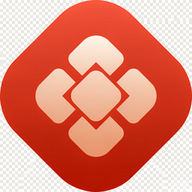
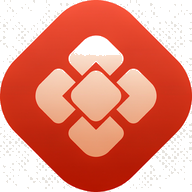
v2.17.13 图标背景透明化：先缩再扣白

diff --git a/index.html b/index.html
@@ -10,7 +10,7 @@
 <meta name="apple-mobile-web-app-title" content="班主任工作台">
 <link rel="manifest" href="./manifest.json">
 <link rel="apple-touch-icon" href="./icon_192.png">
[2 lines of base64/hex data omitted]
 <style>
 /* ==================== Reset & Base ==================== */
 *,*::before,*::after{box-sizing:border-box;margin:0;padding:0}
@@ -1883,7 +1883,7 @@ svg.ic-sm{width:15px;height:15px;vertical-align:-2.5px}
         <div>请输入密码解锁工作台</div>
       </div>
       <div class="login-vertical">厚德博学 · 敬业爱生</div>
-      <div class="login-version">v2.17.12</div>
+      <div class="login-version">v2.17.13</div>
       <div class="login-particles">
         <span style="left:15%;top:30%;animation-delay:0s"></span>
         <span style="left:75%;top:20%;animation-delay:2s"></span>
@@ -1999,7 +1999,7 @@ svg.ic-sm{width:15px;height:15px;vertical-align:-2.5px}
         <span class="nav-icon"><svg class="ic"><use href="#i-gear"/></svg></span><span>设置</span>
       </div>
     </nav>
-    <div class="sidebar-footer">v2.17.12 · 班主任工作台</div>
+    <div class="sidebar-footer">v2.17.13 · 班主任工作台</div>
   </aside>
 
   <!-- Main -->
@@ -3696,7 +3696,7 @@ function revertCreditOp(student, op){
 /* 学分变更后统一刷新所有展示学分的视图。
    此前 applyCredit / applyCreditBulk / undoLastOp 只刷 renderCreditsPage，
    学生管理模块的表格不刷新 —— 这是「分数不一致」的直接观感来源。
-   v2.17.12：公示页（学分榜/进步榜/零扣分榜/概览统计/四个图表）纳入统一学分刷新——
+   v2.17.13：公示页（学分榜/进步榜/零扣分榜/概览统计/四个图表）纳入统一学分刷新——
    加分/减分/撤销/恢复/校快照后，只要公示页正开着（常驻/投屏），进步榜等立即同步，
    不再出现「同学加了分，进步榜/学分榜还是老样子」。 */
 function refreshCreditViews(){
@@ -3714,7 +3714,7 @@ function refreshCreditViews(){
   if(dash && dash.classList.contains('active')) safe(window.renderDashboard);
   var ana = document.getElementById('page-analytics');
   if(ana && ana.classList.contains('active')) safe(window.renderAnalytics);
-  var pub = document.getElementById('page-publicity');          // v2.17.12 公示页同步
+  var pub = document.getElementById('page-publicity');          // v2.17.13 公示页同步
   if(pub && pub.classList.contains('active')) safe(window.renderPublicity);
 }
 /* 学分等级：制度第六章（≥100 优秀 / 90-100 合格 / 80-90 一般 / <80 不合格） */
@@ -8944,7 +8944,7 @@ autoSyncFromCloud().then(function(){
   renderClassBrand();
 });
 // Auto sync when tab becomes visible (mobile tab switching)
-/* v2.17.12 跨标签实时同步：班主任操作窗口（学分页/学生表加分）与公示常驻窗口
+/* v2.17.13 跨标签实时同步：班主任操作窗口（学分页/学生表加分）与公示常驻窗口
    （投屏/另一标签全屏给全班看）通常同浏览器多开、共享 localStorage。storage 事件
    让非来源标签自动 loadData + 重渲当前页 —— 加分/减分/撤销/恢复后，公示窗口的
    学分榜/进步榜/零扣分榜/统计图表即时更新，不再等切回标签或云端往返。

diff --git a/sw.js b/sw.js
@@ -1,5 +1,5 @@
 /* Service Worker - 班主任工作台 PWA */
-const CACHE_NAME = 'class-manager-v2.17.12';
+const CACHE_NAME = 'class-manager-v2.17.13';
 const CORE_ASSETS = [
   './',
   './index.html',

diff --git a/PROGRESS.md b/PROGRESS.md
@@ -460,3 +460,15 @@
   2. 版本 bump v2.17.12：登录/侧栏/SW CACHE_NAME=class-manager-v2.17.12；5 个测试文件版本断言明文+转义双轮替换
 - [x] **回归**：全量 16 套 348 项全绿（版本断言已更新 v2.17.12；favicon 行格式断言通过）
 - [x] **给老板**：强刷 1~2 次（第一次刷新拉新 SW v2.17.12，第二次起新缓存生效）即可见新标签页图标；若仍旧 → 关闭该标签页重开（浏览器对标签 favicon 有独立强缓存）
+
+### 2026-09-08（v2.17.13：图标背景透明化——把 ImageGen 白边像素 alpha=0）
+
+- [x] **需求**：老板报「浏览器图标是白色正方形底」——图标是圆角红造型但外围画布是 ImageGen 输出的不透明白底，标签/桌面/Apple 触屏图全部带白方框
+- [x] **根因**：原图 `icon-candidates/F_cluster_bauhaus.png` 是 1024×1024 RGB（无 alpha），画布上是「圆角红色造型 + 周围一圈白底」；之前 v2.17.12 直接把这张图缩到 192/256/512 出 PNG + ICO 嵌进 HTML——白底照搬成了「白方块底」
+- [x] **修复**（先缩再扣白，避免 LANCZOS 混 AA 残白）：
+  1. 方案 F 源图 1024px RGB → 按需缩到 16/32/48/64/128/192/256/512 各自尺寸（LANCZOS）
+  2. 每张缩好后再转 RGBA，**luma>230 或 RGB 全>225 的像素 → alpha=0**（白边 + 灰白 AA 全部变透明，圆角红色造型保持原色）
+  3. 64×64 → base64 替换 index.html 第 13 行 `<link rel="icon">`；favicon.ico 多尺寸（16/32/48/64/128/256）；桌面 `%LOCALAPPDATA%\class-manager\icon.ico` 同步
+  4. 版本 bump v2.17.13（登录/侧栏/SW CACHE_NAME + 5 测试文件明文+转义双轮）
+- [x] **回归**：全量 16 套 348 项全绿
+- [x] **给老板**：再强刷 2 次（SW v2.17.13 强制缓存失效）即可见「圆角红色 + 透明角」；桌面 .lnk 图标退格键右键刷新让 Windows 重读新 ico
